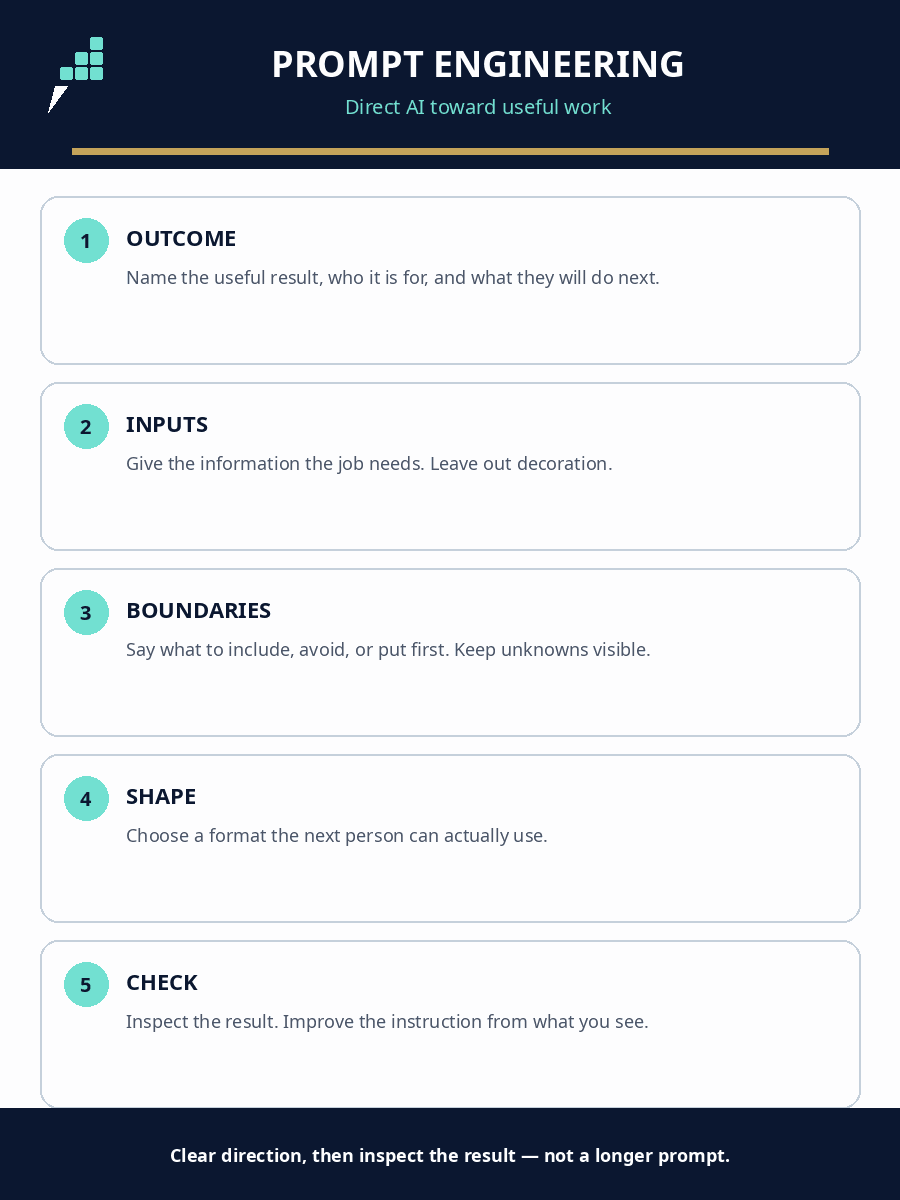
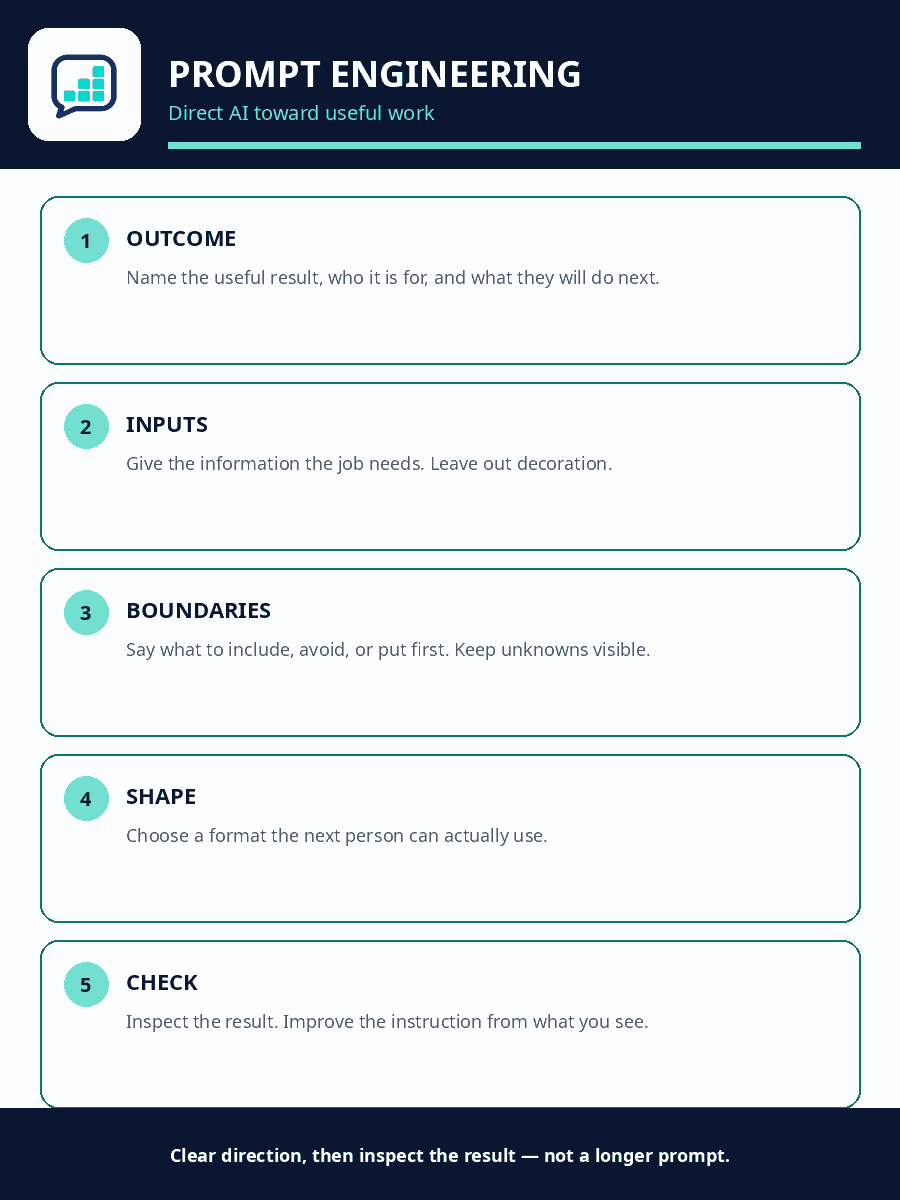
Fix PE explainer to locked brand mark and keep #4 open.
Regenerate the Module 2 map with only the locked palette and Jens's
chat-bubble plus 1-2-3 staircase. Drop the gold rule and any extra mark.
Content maturity stays in this PR; #4 remains open for harness validation.

Changed region(s): [[0.0311, 0.0, 0.9644, 0.1542]]

diff --git a/scripts/render-prompt-engineering-map.py b/scripts/render-prompt-engineering-map.py
@@ -1,7 +1,9 @@
 #!/usr/bin/env python3
 """Render the Module 2 Prompt Engineering explainer (SVG + compact PNG).
 
-Chat-first, pixel-progress motif. Brand navy / cyan / paper. No robots or brains.
+Locked kit only: navy, cyan, dark cyan, paper, white, slate.
+Official mark only: navy chat-bubble outline + cyan 1-2-3 pixel staircase.
+No gold, no lightning, no invented symbols.
 """
 
 from __future__ import annotations
@@ -13,13 +15,14 @@ from PIL import Image, ImageDraw, ImageFont
 
 NAVY = (11, 23, 48, 255)
 CYAN = (114, 224, 209, 255)
+DARK_CYAN = (11, 118, 109, 255)
 PAPER = (245, 248, 251, 255)
 WHITE = (255, 255, 255, 255)
 SLATE = (74, 85, 104, 255)
-AMBER = (196, 163, 90, 255)
 
 ROOT = Path(__file__).resolve().parents[1]
 ASSETS = ROOT / "assets"
+BRAND_ICON = ROOT / "brand" / "assets" / "logo-icon.png"
 NOTO_BOLD = Path("/usr/share/fonts/truetype/noto/NotoSans-Bold.ttf")
 NOTO_REG = Path("/usr/share/fonts/truetype/noto/NotoSans-Regular.ttf")
 
@@ -30,7 +33,6 @@ STEPS = (
     ("4", "SHAPE", "Choose a format the next person can actually use."),
     ("5", "CHECK", "Inspect the result. Improve the instruction from what you see."),
 )
-
 
 def font(path: Path, size: int) -> ImageFont.FreeTypeFont:
     return ImageFont.truetype(str(path), size)
@@ -53,33 +55,6 @@ def wrap(draw: ImageDraw.ImageDraw, text: str, fnt: ImageFont.FreeTypeFont, max_
     return lines
 
 
-def draw_bubble(draw: ImageDraw.ImageDraw, x: int, y: int, size: int) -> None:
-    body = (x, y, x + size, y + int(size * 0.72))
-    draw.rounded_rectangle(body, radius=int(size * 0.22), outline=NAVY, width=max(3, size // 14))
-    tip = (x + int(size * 0.08), y + int(size * 1.02))
-    left = (x + int(size * 0.16), y + int(size * 0.64))
-    right = (x + int(size * 0.42), y + int(size * 0.72))
-    draw.polygon([left, tip, right], fill=NAVY)
-    inset = max(2, size // 16)
-    draw.polygon(
-        [
-            (left[0] + inset, left[1] + inset // 2),
-            (tip[0] + inset, tip[1] - inset),
-            (right[0] - inset, right[1] - inset),
-        ],
-        fill=PAPER,
-    )
-    block = max(5, size // 7)
-    gap = max(2, block // 4)
-    start_x = x + int(size * 0.28)
-    bottom = y + int(size * 0.58)
-    for col, count in enumerate((1, 2, 3)):
-        for row in range(count):
-            bx = start_x + col * (block + gap)
-            by = bottom - (row + 1) * block - row * gap
-            draw.rounded_rectangle((bx, by, bx + block, by + block), radius=2, fill=CYAN)
-
-
 def render_png(path: Path) -> Image.Image:
     w, h = 900, 1200
     im = Image.new("RGBA", (w, h), PAPER)
@@ -92,18 +67,22 @@ def render_png(path: Path) -> Image.Image:
     num_f = font(NOTO_BOLD, 20)
     foot_f = font(NOTO_BOLD, 18)
 
-    # Header
     draw.rectangle((0, 0, w, 168), fill=NAVY)
-    draw_bubble(draw, 36, 28, 88)
-    title = "PROMPT ENGINEERING"
-    tw = draw.textlength(title, font=title_f)
-    draw.text(((w - tw) / 2 + 28, 38), title, font=title_f, fill=WHITE)
-    subtitle = "Direct AI toward useful work"
-    sw = draw.textlength(subtitle, font=sub_f)
-    draw.text(((w - sw) / 2 + 28, 92), subtitle, font=sub_f, fill=CYAN)
-    draw.rectangle((72, 148, w - 72, 154), fill=AMBER)
 
-    # Step cards
+    # Paper chip + Jens's locked mark file. Do not invent a second symbol.
+    chip_box = (28, 28, 140, 140)
+    draw.rounded_rectangle(chip_box, radius=20, fill=PAPER)
+    mark = Image.open(BRAND_ICON).convert("RGBA")
+    mark.thumbnail((100, 100), Image.Resampling.LANCZOS)
+    chip = Image.new("RGBA", (112, 112), (0, 0, 0, 0))
+    chip.paste(mark, ((112 - mark.width) // 2, (112 - mark.height) // 2), mark)
+    im.paste(chip, (28, 28), chip)
+
+    title = "PROMPT ENGINEERING"
+    draw.text((168, 48), title, font=title_f, fill=WHITE)
+    draw.text((168, 98), "Direct AI toward useful work", font=sub_f, fill=CYAN)
+    draw.rectangle((168, 142, w - 40, 148), fill=CYAN)
+
     top = 196
     card_h = 168
     gap = 18
@@ -111,25 +90,22 @@ def render_png(path: Path) -> Image.Image:
     for i, (num, name, blurb) in enumerate(STEPS):
         y = top + i * (card_h + gap)
         draw.rounded_rectangle((left, y, right, y + card_h), radius=18, fill=WHITE)
-        draw.rounded_rectangle((left, y, right, y + card_h), radius=18, outline=(197, 208, 220, 255), width=2)
+        draw.rounded_rectangle((left, y, right, y + card_h), radius=18, outline=DARK_CYAN, width=2)
         cx, cy = left + 46, y + 44
         draw.ellipse((cx - 22, cy - 22, cx + 22, cy + 22), fill=CYAN)
         nw = draw.textlength(num, font=num_f)
         draw.text((cx - nw / 2, cy - 14), num, font=num_f, fill=NAVY)
         draw.text((left + 86, y + 26), name, font=step_f, fill=NAVY)
-        lines = wrap(draw, blurb, body_f, right - left - 108)
-        for li, line in enumerate(lines):
+        for li, line in enumerate(wrap(draw, blurb, body_f, right - left - 108)):
             draw.text((left + 86, y + 68 + li * 28), line, font=body_f, fill=SLATE)
 
-    # Footer
     draw.rectangle((0, h - 92, w, h), fill=NAVY)
     footer = "Clear direction, then inspect the result — not a longer prompt."
     fw = draw.textlength(footer, font=foot_f)
     draw.text(((w - fw) / 2, h - 58), footer, font=foot_f, fill=WHITE)
 
     path.parent.mkdir(parents=True, exist_ok=True)
-    rgb = im.convert("P", palette=Image.Palette.ADAPTIVE, colors=32)
-    rgb.save(path, "PNG", optimize=True)
+    im.convert("P", palette=Image.Palette.ADAPTIVE, colors=16).save(path, "PNG", optimize=True)
     return im
 
 
@@ -150,6 +126,22 @@ def wrap_svg_lines(text: str, width: int = 58) -> list[str]:
     return lines
 
 
+def official_mark_svg(ox: float, oy: float, view: float) -> str:
+    s = view / 256.0
+    return f"""  <g transform="translate({ox},{oy}) scale({s:.4f})">
+    <rect x="36" y="28" width="184" height="152" rx="40" fill="none" stroke="#0B1730" stroke-width="22"/>
+    <path d="M58 168 L28 232 L104 180" fill="none" stroke="#0B1730" stroke-width="22" stroke-linejoin="round" stroke-linecap="round"/>
+    <g fill="#72E0D1">
+      <rect x="86" y="128" width="22" height="22" rx="5"/>
+      <rect x="117" y="128" width="22" height="22" rx="5"/>
+      <rect x="117" y="97" width="22" height="22" rx="5"/>
+      <rect x="148" y="128" width="22" height="22" rx="5"/>
+      <rect x="148" y="97" width="22" height="22" rx="5"/>
+      <rect x="148" y="66" width="22" height="22" rx="5"/>
+    </g>
+  </g>"""
+
+
 def render_svg(path: Path) -> None:
     steps_svg = []
     y = 196
@@ -161,7 +153,7 @@ def render_svg(path: Path) -> None:
             tspans.append(f'<tspan x="126" dy="{dy}">{line}</tspan>')
         steps_svg.append(
             f"""  <g>
-    <rect x="40" y="{y}" width="820" height="168" rx="18" fill="#FFFFFF" stroke="#C5D0DC" stroke-width="2"/>
+    <rect x="40" y="{y}" width="820" height="168" rx="18" fill="#FFFFFF" stroke="#0B766D" stroke-width="2"/>
     <circle cx="86" cy="{y + 44}" r="22" fill="#72E0D1"/>
     <text x="86" y="{y + 51}" text-anchor="middle" font-family="Inter, Noto Sans, sans-serif" font-size="20" font-weight="700" fill="#0B1730">{num}</text>
     <text x="126" y="{y + 48}" font-family="Inter, Noto Sans, sans-serif" font-size="22" font-weight="700" fill="#0B1730">{name}</text>
@@ -173,19 +165,11 @@ def render_svg(path: Path) -> None:
     svg = f"""<svg xmlns="http://www.w3.org/2000/svg" viewBox="0 0 900 1200" role="img" aria-label="Prompt engineering map. Direct AI toward useful work. Outcome, inputs, boundaries, shape, then check.">
   <rect width="900" height="1200" fill="#F5F8FB"/>
   <rect width="900" height="168" fill="#0B1730"/>
-  <rect x="36" y="28" width="88" height="64" rx="18" fill="none" stroke="#F5F8FB" stroke-width="6"/>
-  <path d="M48 88 L40 118 L72 94" fill="none" stroke="#F5F8FB" stroke-width="6" stroke-linejoin="round" stroke-linecap="round"/>
-  <g fill="#72E0D1">
-    <rect x="58" y="68" width="10" height="10" rx="2"/>
-    <rect x="72" y="68" width="10" height="10" rx="2"/>
-    <rect x="72" y="54" width="10" height="10" rx="2"/>
-    <rect x="86" y="68" width="10" height="10" rx="2"/>
-    <rect x="86" y="54" width="10" height="10" rx="2"/>
-    <rect x="86" y="40" width="10" height="10" rx="2"/>
-  </g>
-  <text x="500" y="72" text-anchor="middle" font-family="Inter, Noto Sans, sans-serif" font-size="36" font-weight="700" fill="#FFFFFF">PROMPT ENGINEERING</text>
-  <text x="500" y="112" text-anchor="middle" font-family="Inter, Noto Sans, sans-serif" font-size="20" fill="#72E0D1">Direct AI toward useful work</text>
-  <rect x="72" y="148" width="756" height="6" fill="#C4A35A"/>
+  <rect x="28" y="28" width="112" height="112" rx="20" fill="#F5F8FB"/>
+{official_mark_svg(30, 22, 116)}
+  <text x="168" y="78" font-family="Inter, Noto Sans, sans-serif" font-size="36" font-weight="700" fill="#FFFFFF">PROMPT ENGINEERING</text>
+  <text x="168" y="118" font-family="Inter, Noto Sans, sans-serif" font-size="20" fill="#72E0D1">Direct AI toward useful work</text>
+  <rect x="168" y="142" width="692" height="6" fill="#72E0D1"/>
 {chr(10).join(steps_svg)}
   <rect y="1108" width="900" height="92" fill="#0B1730"/>
   <text x="450" y="1162" text-anchor="middle" font-family="Inter, Noto Sans, sans-serif" font-size="18" font-weight="700" fill="#FFFFFF">Clear direction, then inspect the result — not a longer prompt.</text>

diff --git a/resources/visuals.md b/resources/visuals.md
@@ -34,7 +34,7 @@ Governance, metadata fields, size limits, and harness fallbacks: `resources/asse
 - Rights status: `academy-original`. Created for this repository. No open-source license selected yet; public visibility is not permission to reuse outside the Academy.
 - Placement: **store** — required offline explainer for the live module.
 - Required for completion: The *concept* is required; the *raster file* is not. Meaningful alt text satisfies the acceptance scenario when inline display fails.
-- Optimization: 900 × 1200, 8-bit palette PNG, 18,095 bytes (~18 KB). Under preferred 1200 px / 200 KB limits. SVG companion is 4,635 bytes.
+- Optimization: 900 × 1200, 8-bit palette PNG, 16,293 bytes (~16 KB). Under preferred 1200 px / 200 KB limits. SVG companion is 4,957 bytes. Locked palette only (navy / cyan / dark cyan / paper / white / slate). Official chat-bubble + 1-2-3 staircase mark from `brand/assets/logo-icon.png` / `logo-icon.svg`. No gold rule and no extra symbols.
 
 ## Required pattern for future modules
 

diff --git a/resources/asset-governance.md b/resources/asset-governance.md
@@ -88,7 +88,7 @@ Audio and video binaries do not belong in the repo for optional deepeners. Store
 
 ### Module 2 explainer
 
-`assets/prompt-engineering-map.png` is a **900 × 1200**, 8-bit palette PNG, **18,095 bytes** (~18 KB) as of 2026-09-09. Vector source: `assets/prompt-engineering-map.svg` (4,635 bytes). Rebuild with `scripts/render-prompt-engineering-map.py`. No size exception.
+`assets/prompt-engineering-map.png` is a **900 × 1200**, 8-bit palette PNG, **16,293 bytes** (~16 KB) as of 2026-09-09. Vector source: `assets/prompt-engineering-map.svg` (4,957 bytes). Rebuild with `scripts/render-prompt-engineering-map.py`. Uses the locked mark (`brand/assets/logo-icon.png`) and locked palette only. No size exception.
 
 ## External assets are optional
 
